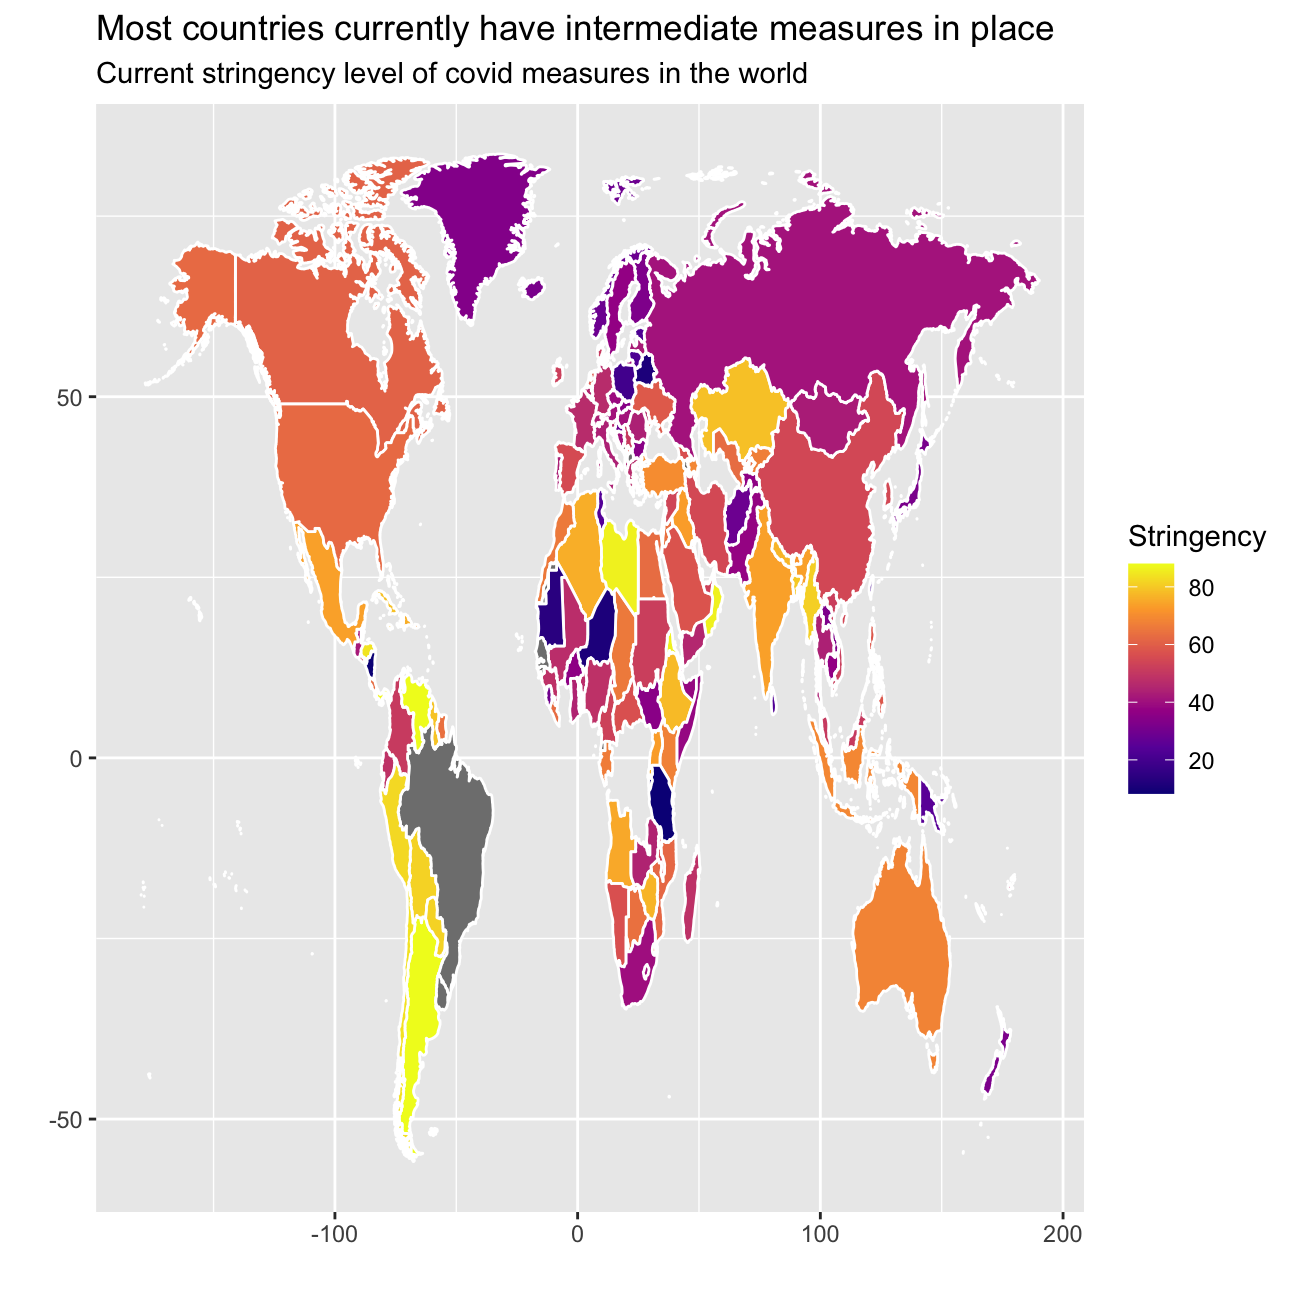
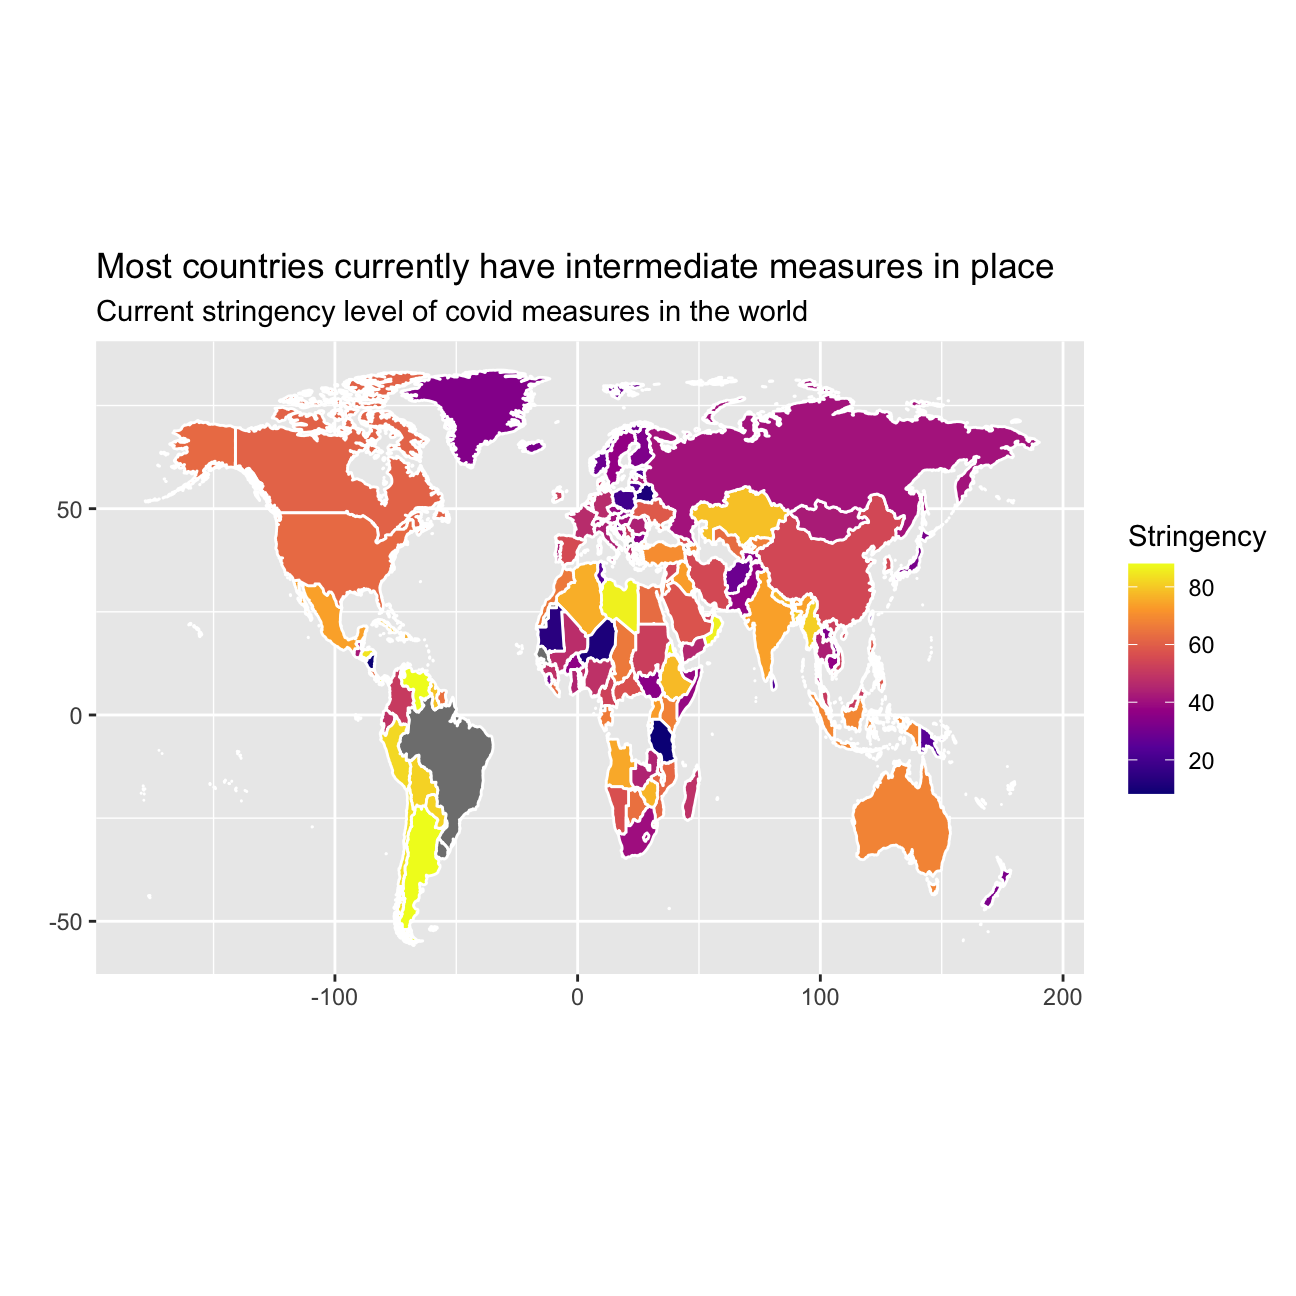
Change format of map

diff --git a/content/projects/project1.html b/content/projects/project1.html
@@ -1056,6 +1056,7 @@ ggplot(covid_measures_map, aes(map_id = region, fill = Stringency))+
   
 #add labels
   labs(title= &quot;Most countries currently have intermediate measures in place&quot;,subtitle = &quot;Current stringency level of covid measures in the world&quot;, x=&quot;&quot;,y=&quot;&quot;)+
+  coord_fixed(ratio = 1.7)+
   NULL</code></pre>
 <p><img src="/projects/project1_files/figure-html/unnamed-chunk-13-1.png" width="648" style="display: block; margin: auto;" /></p>
 </div>

diff --git a/public/projects/project1/index.html b/public/projects/project1/index.html
@@ -1123,6 +1123,7 @@ ggplot(covid_measures_map, aes(map_id = region, fill = Stringency))+
   
 #add labels
   labs(title= &quot;Most countries currently have intermediate measures in place&quot;,subtitle = &quot;Current stringency level of covid measures in the world&quot;, x=&quot;&quot;,y=&quot;&quot;)+
+  coord_fixed(ratio = 1.7)+
   NULL</code></pre>
 <p><img src="/projects/project1_files/figure-html/unnamed-chunk-13-1.png" width="648" style="display: block; margin: auto;" /></p>
 </div>
